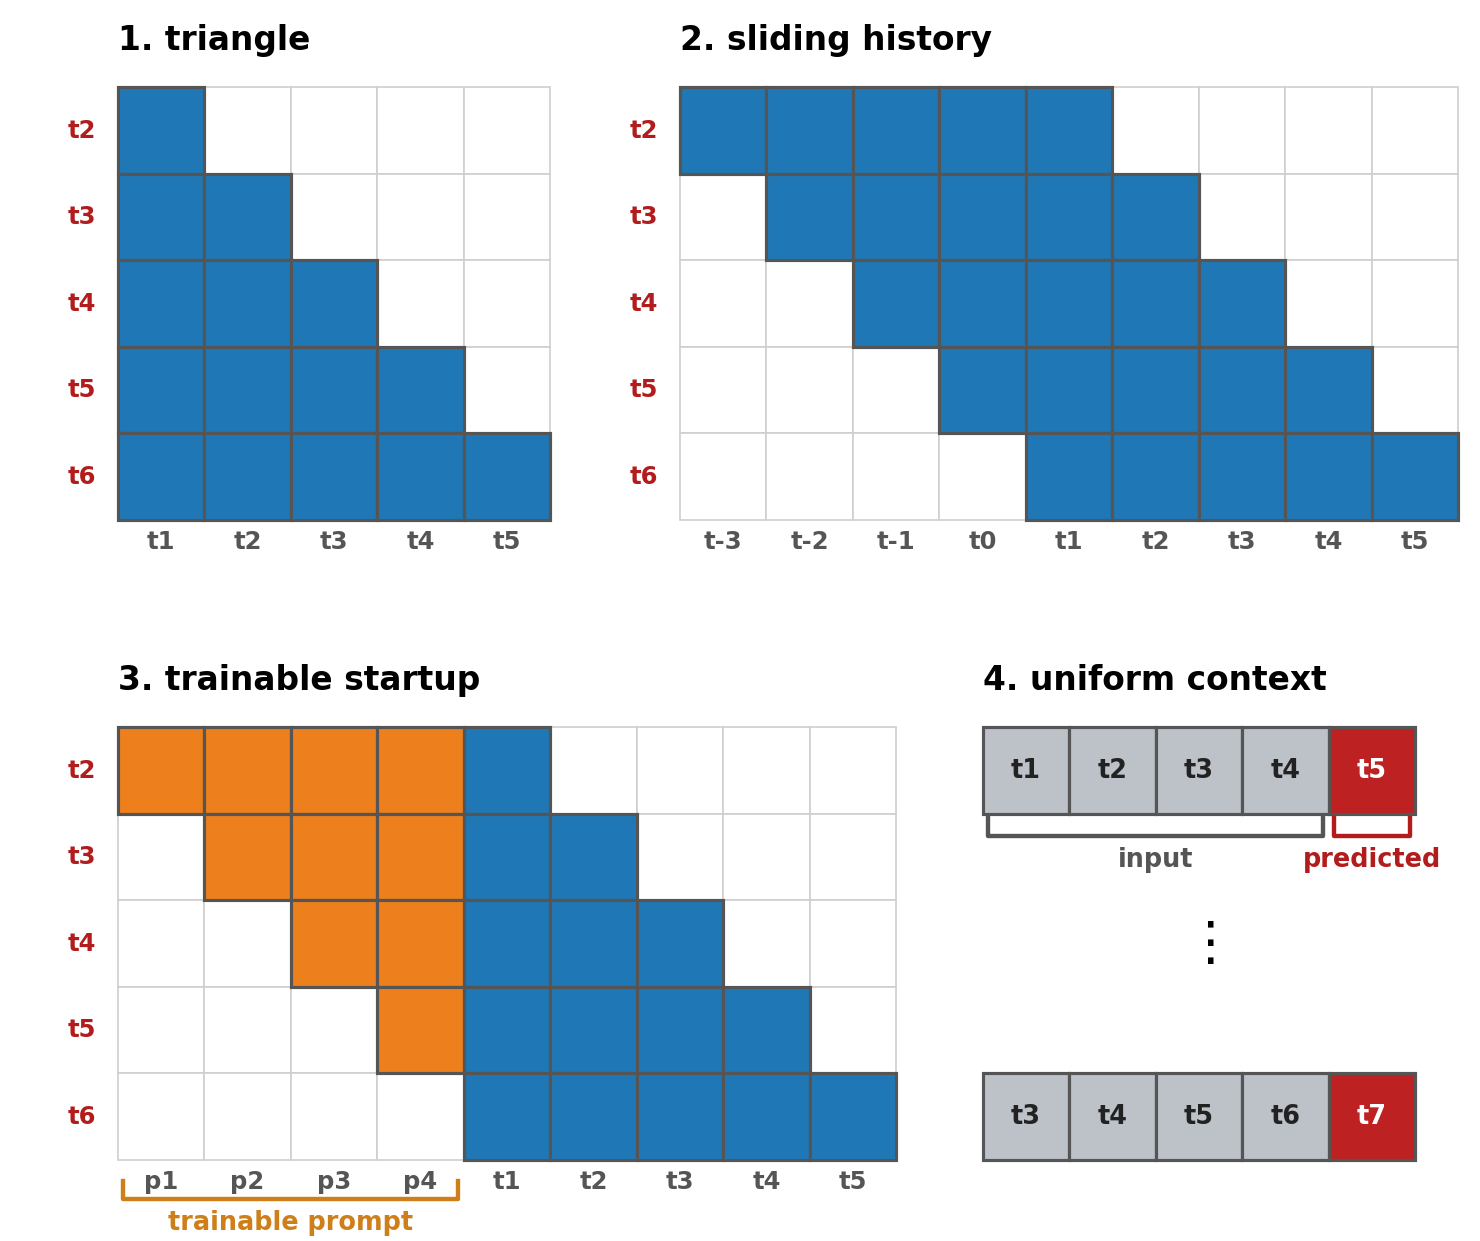
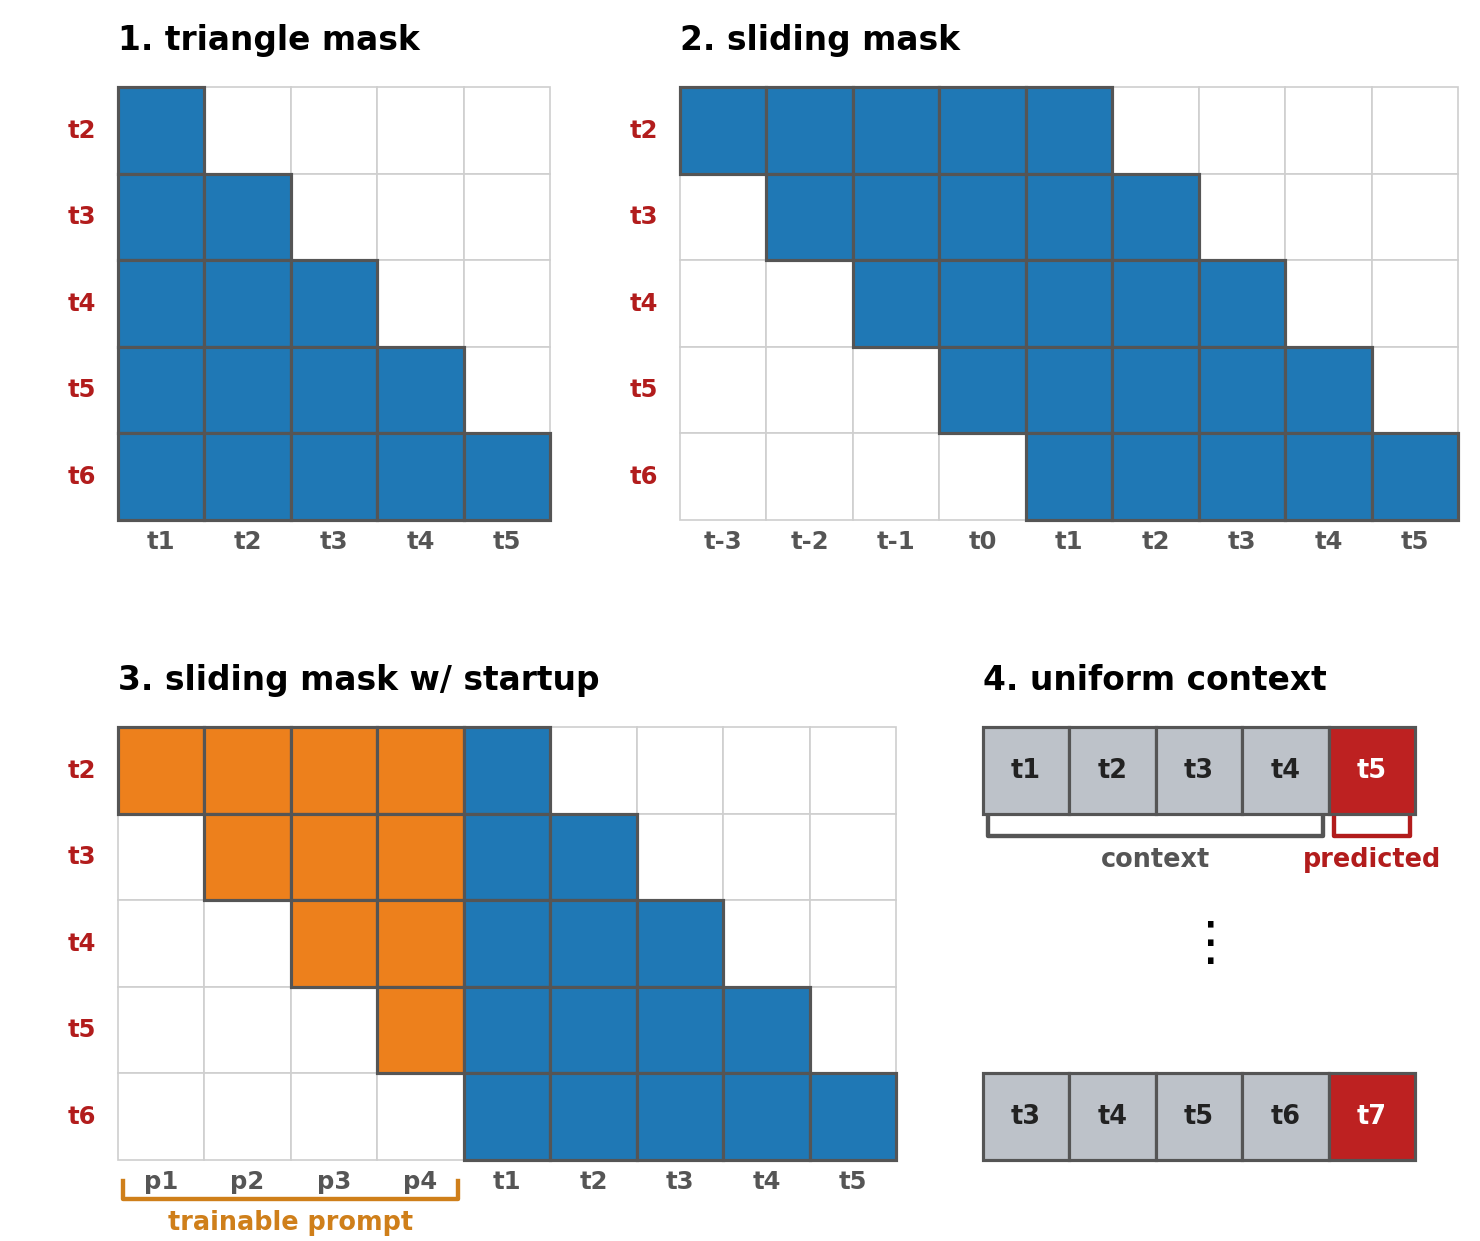
paper fig: rename panels to mask-descriptive (1 triangle mask, 2 sliding mask, 3 sliding mask w/ startup, 4 uniform context); input->context bracket; caption matched + bridged to scheme names

diff --git a/paper/attention-sink/main.tex b/paper/attention-sink/main.tex
@@ -77,7 +77,7 @@ We state four hypotheses, each a claim presented with its mechanism and the expe
 \begin{figure}[t]
 \centering
 \includegraphics[width=\linewidth]{figures/windowed_attention.png}
-\caption{Four continued-pretraining regimes. Panels 1--3 are attention masks (rows = a predicting step, columns = attended positions; \textcolor[rgb]{0.12,0.47,0.71}{blue} = attended). Panel 4 is a sequence diagram (\textcolor[rgb]{0.5,0.52,0.55}{grey} = an input token, \textcolor[rgb]{0.70,0.11,0.11}{crimson} = the predicted token). \textbf{1. Triangle:} the full causal mask, where context grows with position. \textbf{2. Sliding history:} a constant-width-$W$ window whose cold start is filled with real prior text. \textbf{3. Trainable startup:} the same window, with the cold start filled by trainable prompt tokens (orange) that slide out as content accumulates. \textbf{4. Uniform context:} not an attention mask but fixed-length training --- a stack of length-$W$ sequences (two shown, $\vdots$ for the rest), each predicting only its last token from its input, so it also runs on a recurrence. Older context must be carried by the weights.}
+\caption{Four continued-pretraining regimes. Panels 1--3 are attention masks (rows = a predicting step, columns = attended positions; \textcolor[rgb]{0.12,0.47,0.71}{blue} = attended). Panel 4 is a sequence diagram (\textcolor[rgb]{0.5,0.52,0.55}{grey} = a context token, \textcolor[rgb]{0.70,0.11,0.11}{crimson} = the predicted token). \textbf{1. Triangle mask:} the full causal mask, where context grows with position. \textbf{2. Sliding mask:} a constant-width-$W$ window whose cold start is filled with real prior text (the \emph{sliding-history} scheme). \textbf{3. Sliding mask w/ startup:} the same window, with the cold start filled by trainable prompt tokens (orange) that slide out as content accumulates (\emph{trainable-startup}). \textbf{4. Uniform context:} not an attention mask but fixed-length training --- a stack of length-$W$ sequences (two shown, $\vdots$ for the rest), each predicting only its last token from its context, so it also runs on a recurrence. Older context must be carried by the weights.}
 \label{fig:sliding-history}
 \end{figure}
 

diff --git a/experiments/07_autoresearch_sink/scripts/make_windowed_attention_fig.py b/experiments/07_autoresearch_sink/scripts/make_windowed_attention_fig.py
@@ -26,15 +26,15 @@ def attn(ox,oy,title,fill,xlabels):
         YL(ox-.25,oy+r,PRED[r],PRD)
     for c,t in enumerate(xlabels): XL(ox+c,oy+5+.12,t,CTX)
 # CAUSAL (content side only, 5x5)  -- left col, top
-ox,oy=0,0; TT(ox,oy-.35,"1. triangle")
+ox,oy=0,0; TT(ox,oy-.35,"1. triangle mask")
 for r in range(5):
     for c in range(5): (Cl(ox+c,oy+r,CONTENT) if c<=r else Em(ox+c,oy+r))
     YL(ox-.25,oy+r,PRED[r],PRD)
 for c,t in enumerate(["t1","t2","t3","t4","t5"]): XL(ox+c,oy+5+.12,t,CTX)
 # SLIDING+HISTORY  -- right col, top
-attn(6.5,0,"2. sliding history",HISTC,["t-3","t-2","t-1","t0","t1","t2","t3","t4","t5"])
+attn(6.5,0,"2. sliding mask",HISTC,["t-3","t-2","t-1","t0","t1","t2","t3","t4","t5"])
 # TRAINABLE STARTUP (attention) -- bottom-LEFT (panel 3)
-attn(0,7.4,"3. trainable startup",PROMPT,["p1","p2","p3","p4","t1","t2","t3","t4","t5"])
+attn(0,7.4,"3. sliding mask w/ startup",PROMPT,["p1","p2","p3","p4","t1","t2","t3","t4","t5"])
 # UNIFORM CONTEXT (not attention) -- bottom-RIGHT (panel 4): two stacked example sequences, right-aligned to x=14
 ox,oy=10,7.4; TT(ox,oy-.35,"4. uniform context")
 def useq(sx,ry,toks):           # 5-length predict-last sequence; labels INSIDE cells
@@ -50,7 +50,7 @@ def brace(x0,x1,label,ytop,col):
     ax.plot([x0+.06,x0+.06,x1-.06,x1-.06],[ytop+.05,yb,yb,ytop+.05],color=col,lw=1.8,zorder=5)
     ax.text((x0+x1)/2,yb+.12,label,fontsize=10.5,fontweight="bold",ha="center",va="top",color=col)
 brace(0,4,"trainable prompt",12.6,"#cf7f1a")     # trainable startup p1-p4 columns
-brace(10,14,"input",8.4,"#555")                  # uniform input tokens t1-t4
+brace(10,14,"context",8.4,"#555")                  # uniform input tokens t1-t4
 brace(14,15,"predicted",8.4,"#b21c1c")           # uniform predicted t5
 ax.set_xlim(-1.3,15.7); ax.set_ylim(13.1,-0.95)
 fig.subplots_adjust(left=0.004,right=0.996,top=0.996,bottom=0.004)
